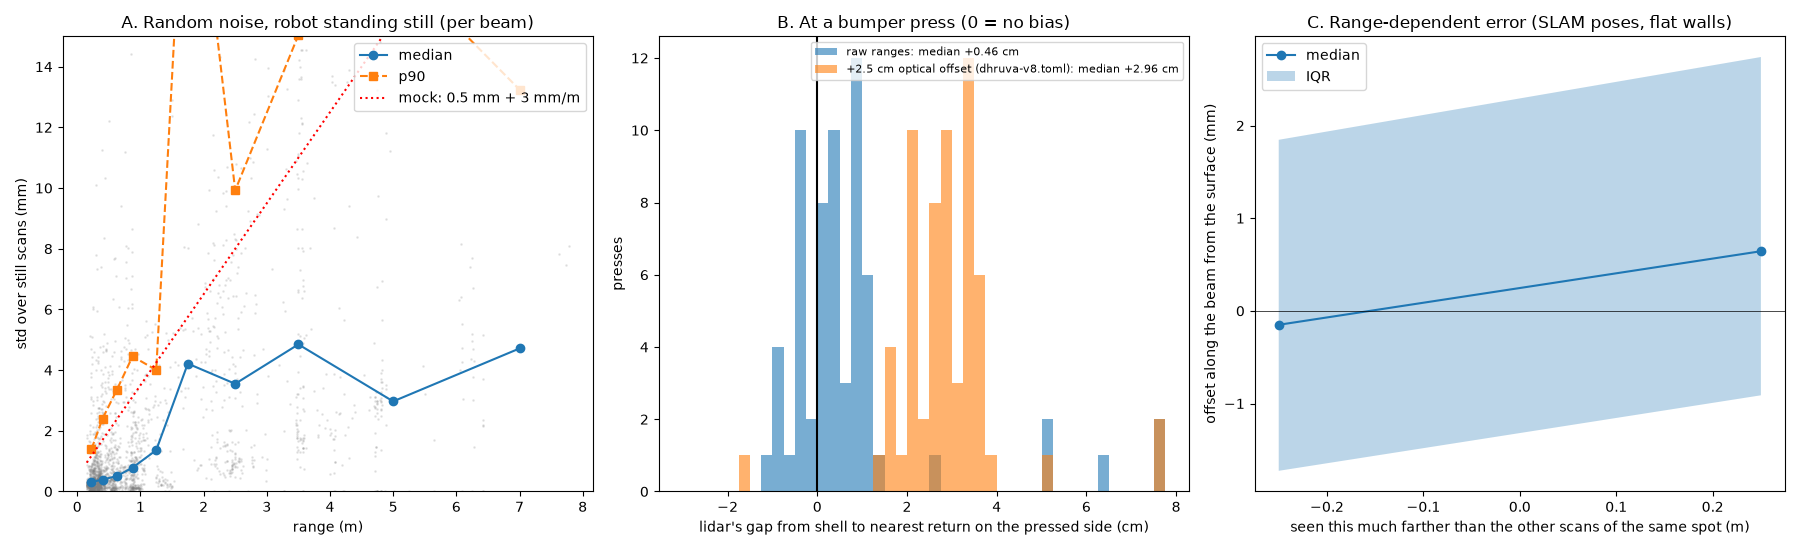
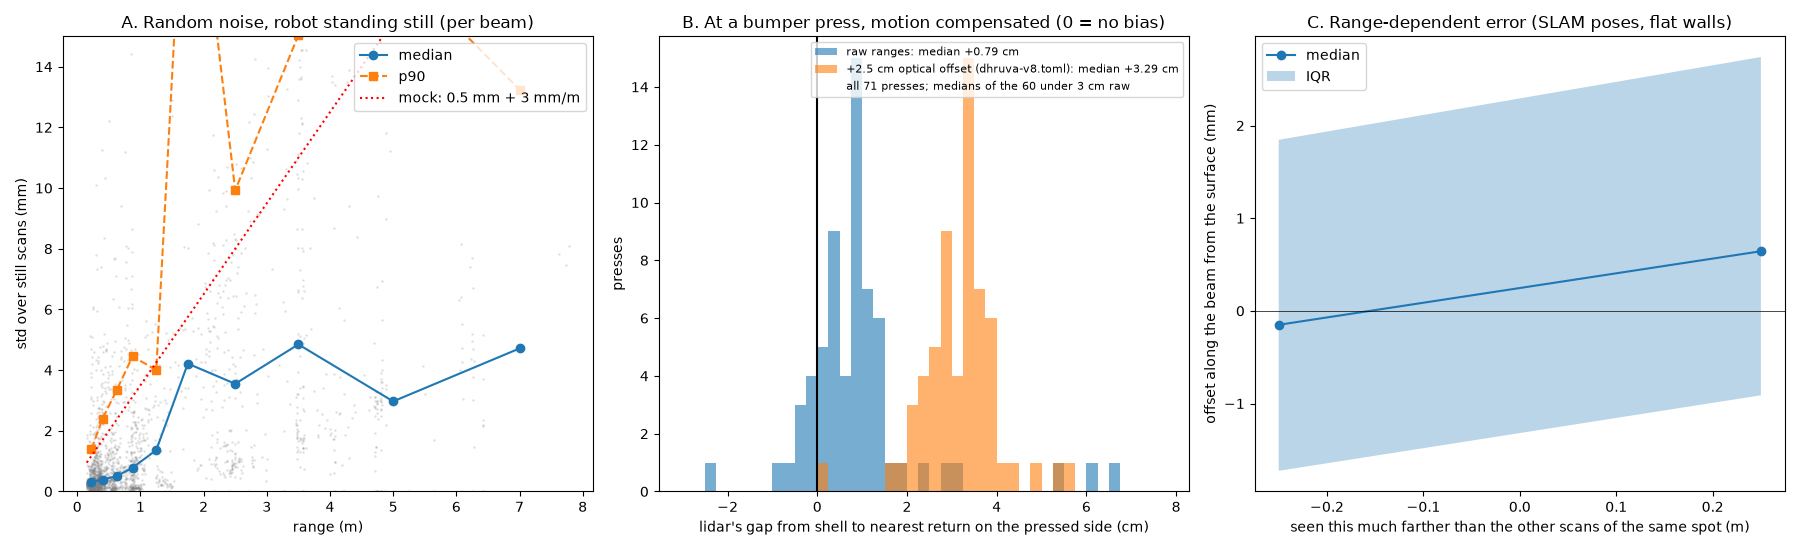
reports/lidar: a press's gap with the robot's motion taken out
After a press the robot turns on the spot and backs off, and the old
version read a scan 0.12 s or more later, uncompensated. Now: the first
scan after the press, each beam moved back by the wheels' forward
distance since (turning keeps a gap to a round shell), on raw ranges.

At 60 presses on what the lidar sees: +0.8 cm beyond the resting shell
(std 0.8), +3.3 cm with dhruva-v8.toml's optical_offset 0.025; the same
left and right, +0.3-0.9 cm per run; front contacts 0.5 cm more than
side ones. Before travel. If the shell and mount are as configured, the
offset makes walls look 3.3-3.8 cm farther than they are; the presses
cannot tell a range offset from a wrong shell radius, so the README
proposes a tape check before touching the config.

diff --git a/reports/lidar/lidar_err.py b/reports/lidar/lidar_err.py
@@ -10,7 +10,7 @@ SLAM's final trajectory), the robot's own SangamIO recordings of them (`data/`,
 
 A  static noise: per-beam std of range while the wheels stand still, against range.
 B  bumper presses: the gap the lidar reports between the shell and the nearest thing on the
-   pressed side, right after the press (0 = no bias).
+   pressed side, moved back to where the robot was at the press (0 = no bias).
 C  range-dependent bias: with SLAM's final poses, each point's offset (along its beam) from the
    local surface built from other scans, against how much farther it was seen than they were.
 """
@@ -25,6 +25,11 @@ import numpy as np
 LASER_X = -0.105  # dhruva-v8.toml / viomi_v8.toml: the lidar 10.5 cm behind the centre
 SHELL_R = 0.175
 OPTICAL = 0.025  # dhruva-v8.toml: added to every range
+# A press on something the lidar sees leaves a raw return this near the shell (glass and
+# overhangs leave none).
+SEEN_GAP = 0.03
+# The scan after a press is used if it came this soon (us).
+MAX_LATENCY_US = 0.3e6
 # Aborted before the lidar came up.
 SKIP = ("sweep4_1783a9",)
 
@@ -99,34 +104,42 @@ def static_noise(status, scans, kin):
     return np.array(rows)
 
 
-def bump_gaps(status, scans):
-    """Per press: the gap (m) between the shell and the nearest return on the pressed side,
-    and the side (L, R, B). Not corrected for the bumper's travel, nor for the robot moving
-    between the press and the scan."""
+def bump_gaps(status, scans, kin):
+    """Per press: the gap (m) between the resting shell and the nearest raw return on the
+    pressed side, its bearing (deg) and the side (L, R, B). From the first scan stamped after
+    the press, moved back to where the robot was at the press by the wheels' forward
+    distance in between (it turns on the spot and backs off; turning does not change a gap
+    to a round shell centred on the pivot; the scan is not deskewed). Not corrected for the
+    bumper's travel: the wall is that much nearer."""
+    wrap = 1 << int(kin["wheel_tick_bits"])
+    ticks = (np.diff(status[:, 1:3], axis=0) + wrap / 2) % wrap - wrap / 2
+    travelled = np.r_[0, np.cumsum(ticks.mean(axis=1)) * kin["wheel_m_per_tick"]]
     out = []
     press = (status[1:, 3] > status[:-1, 3]) | (status[1:, 4] > status[:-1, 4])
     scan_t = np.array([t for t, _ in scans])
     for k in np.nonzero(press)[0] + 1:
         t = status[k, 0]
         left, right = status[k, 3] > 0, status[k, 4] > 0
-        j = np.searchsorted(scan_t, t + 0.12e6)  # a scan started after the stop
-        if j >= len(scans) or scan_t[j] - t > 0.5e6:
+        j = np.searchsorted(scan_t, t)
+        if j >= len(scans) or scan_t[j] - t > MAX_LATENCY_US:
             continue
         sc = scans[j][1]
         sc = sc[(sc[:, 1] >= 0.15) & (sc[:, 1] < 0.6)]
-        r = sc[:, 1] + OPTICAL
-        x, y = LASER_X + r * np.cos(sc[:, 0]), r * np.sin(sc[:, 0])
-        bearing = np.degrees(np.arctan2(y, x))
+        x, y = LASER_X + sc[:, 1] * np.cos(sc[:, 0]), sc[:, 1] * np.sin(sc[:, 0])
+        bearing = np.arctan2(y, x)
+        deg = np.degrees(bearing)
         if left and right:
-            sel = np.abs(bearing) < 45
+            sel = np.abs(deg) < 45
         elif left:
-            sel = (bearing > 0) & (bearing < 90)
+            sel = (deg > 0) & (deg < 90)
         else:
-            sel = (bearing < 0) & (bearing > -90)
+            sel = (deg < 0) & (deg > -90)
         if sel.sum() < 3:
             continue
-        gap = np.hypot(x[sel], y[sel]) - SHELL_R
-        out.append((np.sort(gap)[1], "LR"[int(not left)] if left != right else "B"))  # 2nd nearest
+        forward = np.interp(scan_t[j], status[:, 0], travelled) - travelled[k]
+        gap = (np.hypot(x, y) - SHELL_R + forward * np.cos(bearing))[sel]
+        i = np.argsort(gap)[1]  # the 2nd nearest, against a stray point
+        out.append((gap[i], deg[sel][i], "LR"[int(not left)] if left != right else "B"))
     return out
 
 
@@ -200,27 +213,34 @@ def plot_static(ax, st):
 
 
 def plot_gaps(ax, gaps):
-    g = np.array([x for _, x, _ in gaps]) * 100
-    near = g[g < 5.5]
-    print(f"bump gaps: n={len(g)} median {np.median(g):.2f} cm, "
-          f"IQR {np.percentile(g, 25):.2f}..{np.percentile(g, 75):.2f}")
-    print(f"  on what the lidar sees (< 5.5 cm): n={len(near)} median {np.median(near):.2f} "
-          f"mean {near.mean():.2f} std {near.std():.2f} cm")
-    by = {}
-    for name, x, _ in gaps:
-        if x * 100 < 5.5:
-            by.setdefault(name, []).append(x * 100)
-    for name, v in by.items():
-        print(f"  {name}: n={len(v)} median {np.median(v):.2f} cm")
+    g = np.array([x for _, x, _, _ in gaps]) * 100
+    print(f"bump gaps (raw ranges): n={len(g)} median {np.median(g):+.2f} cm, "
+          f"IQR {np.percentile(g, 25):+.2f}..{np.percentile(g, 75):+.2f}")
+    # What was hit is beyond the lidar's sight (glass, an overhang) when nothing is near.
+    seen = [x for x in gaps if x[1] < SEEN_GAP]
+    near = np.array([x for _, x, _, _ in seen]) * 100
+    print(f"  on what the lidar sees (< {SEEN_GAP * 100:.0f} cm): n={len(near)} "
+          f"median {np.median(near):+.2f} mean {near.mean():+.2f} std {near.std():.2f} cm")
+    groups = {}
+    for name, x, deg, side in seen:
+        groups.setdefault(name, []).append(x * 100)
+        groups.setdefault(f"side {side}", []).append(x * 100)
+        lo = min(int(abs(deg) // 30), 2) * 30
+        groups.setdefault(f"|bearing| {lo}-{lo + 30} deg", []).append(x * 100)
+    for key, v in sorted(groups.items()):
+        print(f"  {key}: n={len(v)} median {np.median(v):+.2f} cm")
     bins = np.arange(-3, 8, 0.25)
     off = OPTICAL * 100
-    ax.hist(g - off, bins=bins, alpha=0.6, label=f"raw ranges: median {np.median(g) - off:+.2f} cm")
-    ax.hist(g, bins=bins, alpha=0.6,
-            label=f"+2.5 cm optical offset (dhruva-v8.toml): median {np.median(g):+.2f} cm")
+    m = np.median(near)
+    ax.hist(g, bins=bins, alpha=0.6, label=f"raw ranges: median {m:+.2f} cm")
+    ax.hist(g + off, bins=bins, alpha=0.6,
+            label=f"+2.5 cm optical offset (dhruva-v8.toml): median {m + off:+.2f} cm")
+    ax.plot([], [], " ", label=f"all {len(g)} presses; medians of the {len(near)} under "
+                               f"{SEEN_GAP * 100:.0f} cm raw")
     ax.axvline(0, color="k")
     ax.legend(fontsize=8)
     ax.set(xlabel="lidar's gap from shell to nearest return on the pressed side (cm)",
-           ylabel="presses", title="B. At a bumper press (0 = no bias)")
+           ylabel="presses", title="B. At a bumper press, motion compensated (0 = no bias)")
 
 
 def plot_range_bias(ax, rb):
@@ -275,7 +295,7 @@ def main():
             continue
         name = run.split("_")[1]
         st = static_noise(status, scans, kin)
-        g = bump_gaps(status, scans)
+        g = bump_gaps(status, scans, kin)
         traj = f"{cat}/{run}/traj_final.csv"
         rb = range_bias(status, scans, kin, traj) if os.path.exists(traj) else np.empty((0, 3))
         slope = (f", slope {np.polyfit(rb[:, 0] - rb[:, 1], rb[:, 2], 1)[0] * 1000:+.1f} mm/m"
@@ -284,7 +304,7 @@ def main():
               f"{len(rb)} surface points{slope}", flush=True)
         if len(st):
             static.append(st)
-        gaps += [(name, x, side) for x, side in g]
+        gaps += [(name, *x) for x in g]
         if len(rb):
             rbs.append(rb)
 

diff --git a/reports/lidar/README.md b/reports/lidar/README.md
@@ -22,24 +22,42 @@ is about right up close and generous beyond.
 
 ## B. Bias at a bumper press
 
-At each press (70 in 7 runs), the next scan's nearest return on the pressed side gives the
-gap from the shell (r 17.5 cm, lidar 10.5 cm behind the centre). The second-nearest return
-is used, against stray points. The gap is computed as dhruva-slam does it, with
-`optical_offset` 0.025 added to every range. On the 60 presses where the lidar sees what was
-hit (a gap under 5.5 cm):
+At each press (71 in 7 runs), take the first scan stamped after it, within 0.3 s. On the
+pressed side, the nearest raw return gives the gap from the resting shell (r 17.5 cm, lidar
+10.5 cm behind the centre). The second-nearest return is used, against stray points. After
+a press the robot turns on the spot and backs off at a few cm/s. Turning does not change a
+gap to a round shell centred on the pivot, so each beam is moved back by the wheels'
+forward distance since the press. The scan is not deskewed. On the 60 presses where the
+lidar sees what was hit (a raw gap under 3 cm):
 
-- **median +2.9 cm, std 0.9 cm** with the offset: walls look 2.9 cm farther than the shell
-  that is touching them;
-- so **about +0.4 cm on raw ranges**;
-- consistent across runs, per-run medians 2.1-3.3 cm. It is systematic, not noise.
+- **median +0.8 cm, std 0.8 cm on raw ranges**: the wall looks 0.8 cm beyond the resting
+  shell. All 71 presses give +0.9 cm, since the cut is on the outcome;
+- **+3.3 cm as dhruva-slam sees it**, since `dhruva-v8.toml` adds `optical_offset` 0.025 to
+  every range;
+- the same left and right (+0.82 / +0.82 cm), and +0.3 to +0.9 cm per run;
+- front contacts read more than side ones: +0.94 cm within 30° (n=33), +0.3-0.4 cm beyond
+  (n=27). A lidar 11 cm behind the centre instead of 10.5 would do that (`dhruva-onboard.toml`
+  has 11), and so would more bumper travel head-on or a shell that is not quite round.
+  These bands are small.
 
-Not accounted for yet:
+One-off checks in a scratch variant, not in the script:
+- The beam timing matters by ±0.2 cm. Taking the stamp as the start, middle or end of the
+  revolution gives +0.6 to +0.8 cm from the scan after the press, and +0.4 to +1.3 cm from
+  the scan before it.
+- The previous version of this script gave +0.36 cm on the same 60-press cut. It used a
+  scan ≥ 0.12 s after the press and no motion compensation, while the robot was already
+  backing off.
+
+Still not accounted for:
 - **Bumper travel.** The shell moves in a few mm before the switch closes, so at a press the
-  wall is that much inside the resting shell. The true bias is the measured gap plus the
-  travel, so ignoring it would make the follower rub.
-- **Motion.** The robot keeps moving or starts backing off between the press and the
-  scan (0.12-0.5 s later).
+  wall is that much inside the resting shell. The bias is the gap above plus the travel: with
+  5 mm of travel, raw ranges read about 1.3 cm long. Leaving it out would make a follower
+  calibrated on presses rub.
 - **What was hit.** A baseboard or a chair rail the lidar sees behind the contact reads long.
+
+Also tried once, in scratch: fitting the offset from how a straight wall bows (a radial
+error δ bends it by δ(1−cos θ)). The recordings have too few still scans beside long
+straight walls; most still time is at the dock. It needs a capture made for it.
 
 ## C. Range-dependent bias
 
@@ -60,13 +78,36 @@ range per spot is small (most within ±0.5 m).
 
 ## What it means
 
-- The error is a constant offset, not noise and not range-dependent. A once-per-robot
-  calibration fixes it, or an online estimate from bumps.
-- The bench's ±1 cm per seed is the right shape. But the real robot may sit near +2.9 cm with
-  today's config: walls look farther than they are, which makes it rub.
-- Before changing `optical_offset`: compensate the press for motion, put a number on the
-  bumper travel, and check against a tape measure. Two other routes are a straight wall's
-  curvature (a wrong radial offset bows it) and the vendor's own value.
+Measured:
+- The error near the shell is a constant offset: the same in every run and on both sides.
+  Within 1 m the noise is a millimetre.
+- On raw ranges, the wall at a press looks 0.8 cm beyond the resting shell. In dhruva-slam,
+  which adds 2.5 cm, it looks 3.3 cm beyond.
+
+Assumed:
+- The shell's radius is 17.5 cm and the lidar sits 10.5 cm behind the centre. All the presses
+  are at 0.2-0.3 m, so they cannot tell a range offset from an error in these. A 1 cm wrong
+  radius looks the same as a 1 cm range offset.
+- The bumper's travel, a few mm, is not measured. It adds to the offset.
+
+So, if the geometry is right:
+- Raw ranges read 1-1.3 cm long, and `optical_offset` 0.025 makes it worse instead of
+  correcting it. Walls would be 3.3-3.8 cm nearer than dhruva-slam believes.
+- `optical_offset` is CRL-200S reference geometry, marked unverified on the v8 in both
+  configs. It is not where the lidar sits; that is `mounting_x`. It is a correction added to
+  every range. These presses alone do not give its value.
+- Why it seems to work anyway:
+  - SLAM barely cares. A constant radial error keeps scans consistent with each other; it
+    moves walls out, so a room looks up to ~7 cm wider, and bends them very slightly.
+  - The sweeps lean on the bumper: 6-17 presses a sweep run.
+  - stock_follow undoes the offset and works on raw ranges.
+- The bench's ±1 cm per seed is the right shape, perhaps around the wrong centre.
+
+To check, a tape test with the robot still and the lidar on:
+- a flat board touching the front, then at 5 and 10 cm, then the same at the side;
+- the front gives `mounting_x` + radius + offset, and the side gives radius + offset;
+- with the radius taped, that pins the offset and `mounting_x`, at more than one range;
+- pushing the shell in by hand until it clicks gives the travel.
 
 ## Run it
 
@@ -76,3 +117,10 @@ uv run -q --with numpy --with scipy --with matplotlib --with protobuf --with mca
 ```
 
 from `VacuumTiger/`; `--root` is the project around it (`captures/`, `data/`, `tools/py/`).
+
+## History
+
+- a6a0ead: first version; a press read +2.9 cm with the offset (+0.36 cm raw), no motion
+  compensation.
+- b8a544a: the scan right after the press, moved back by the wheels' distance; raw
+  ranges; per side, bearing and run.
